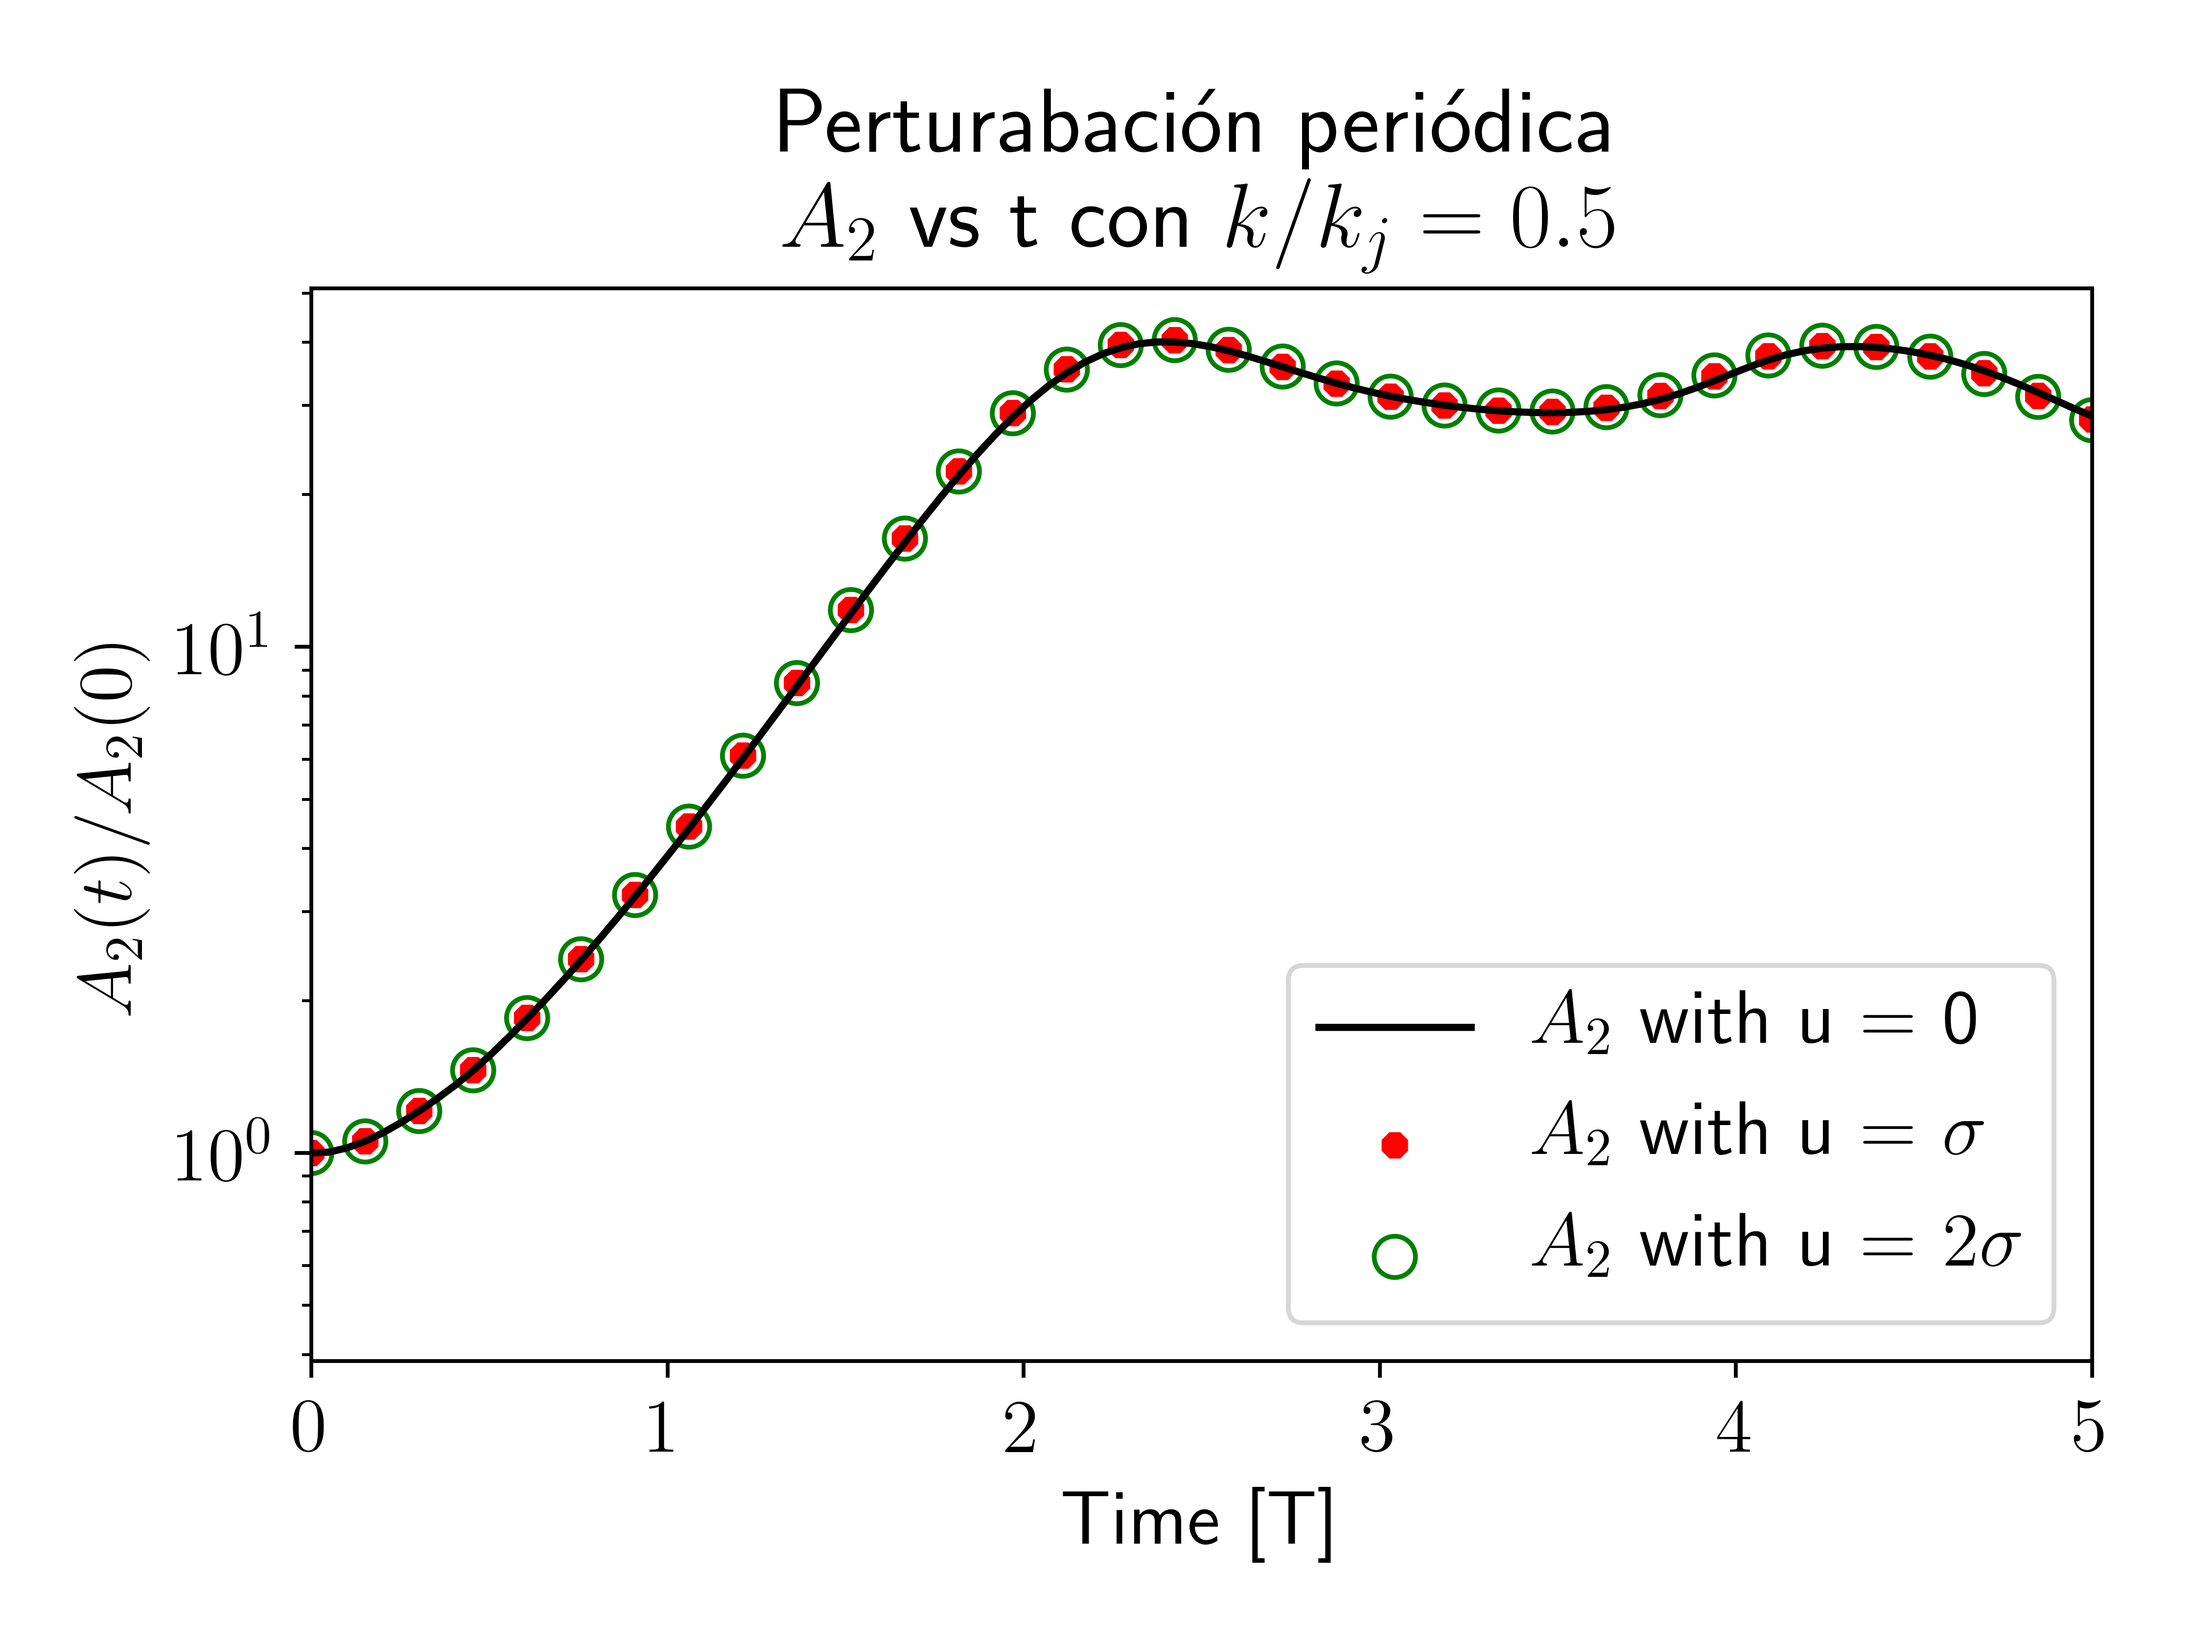
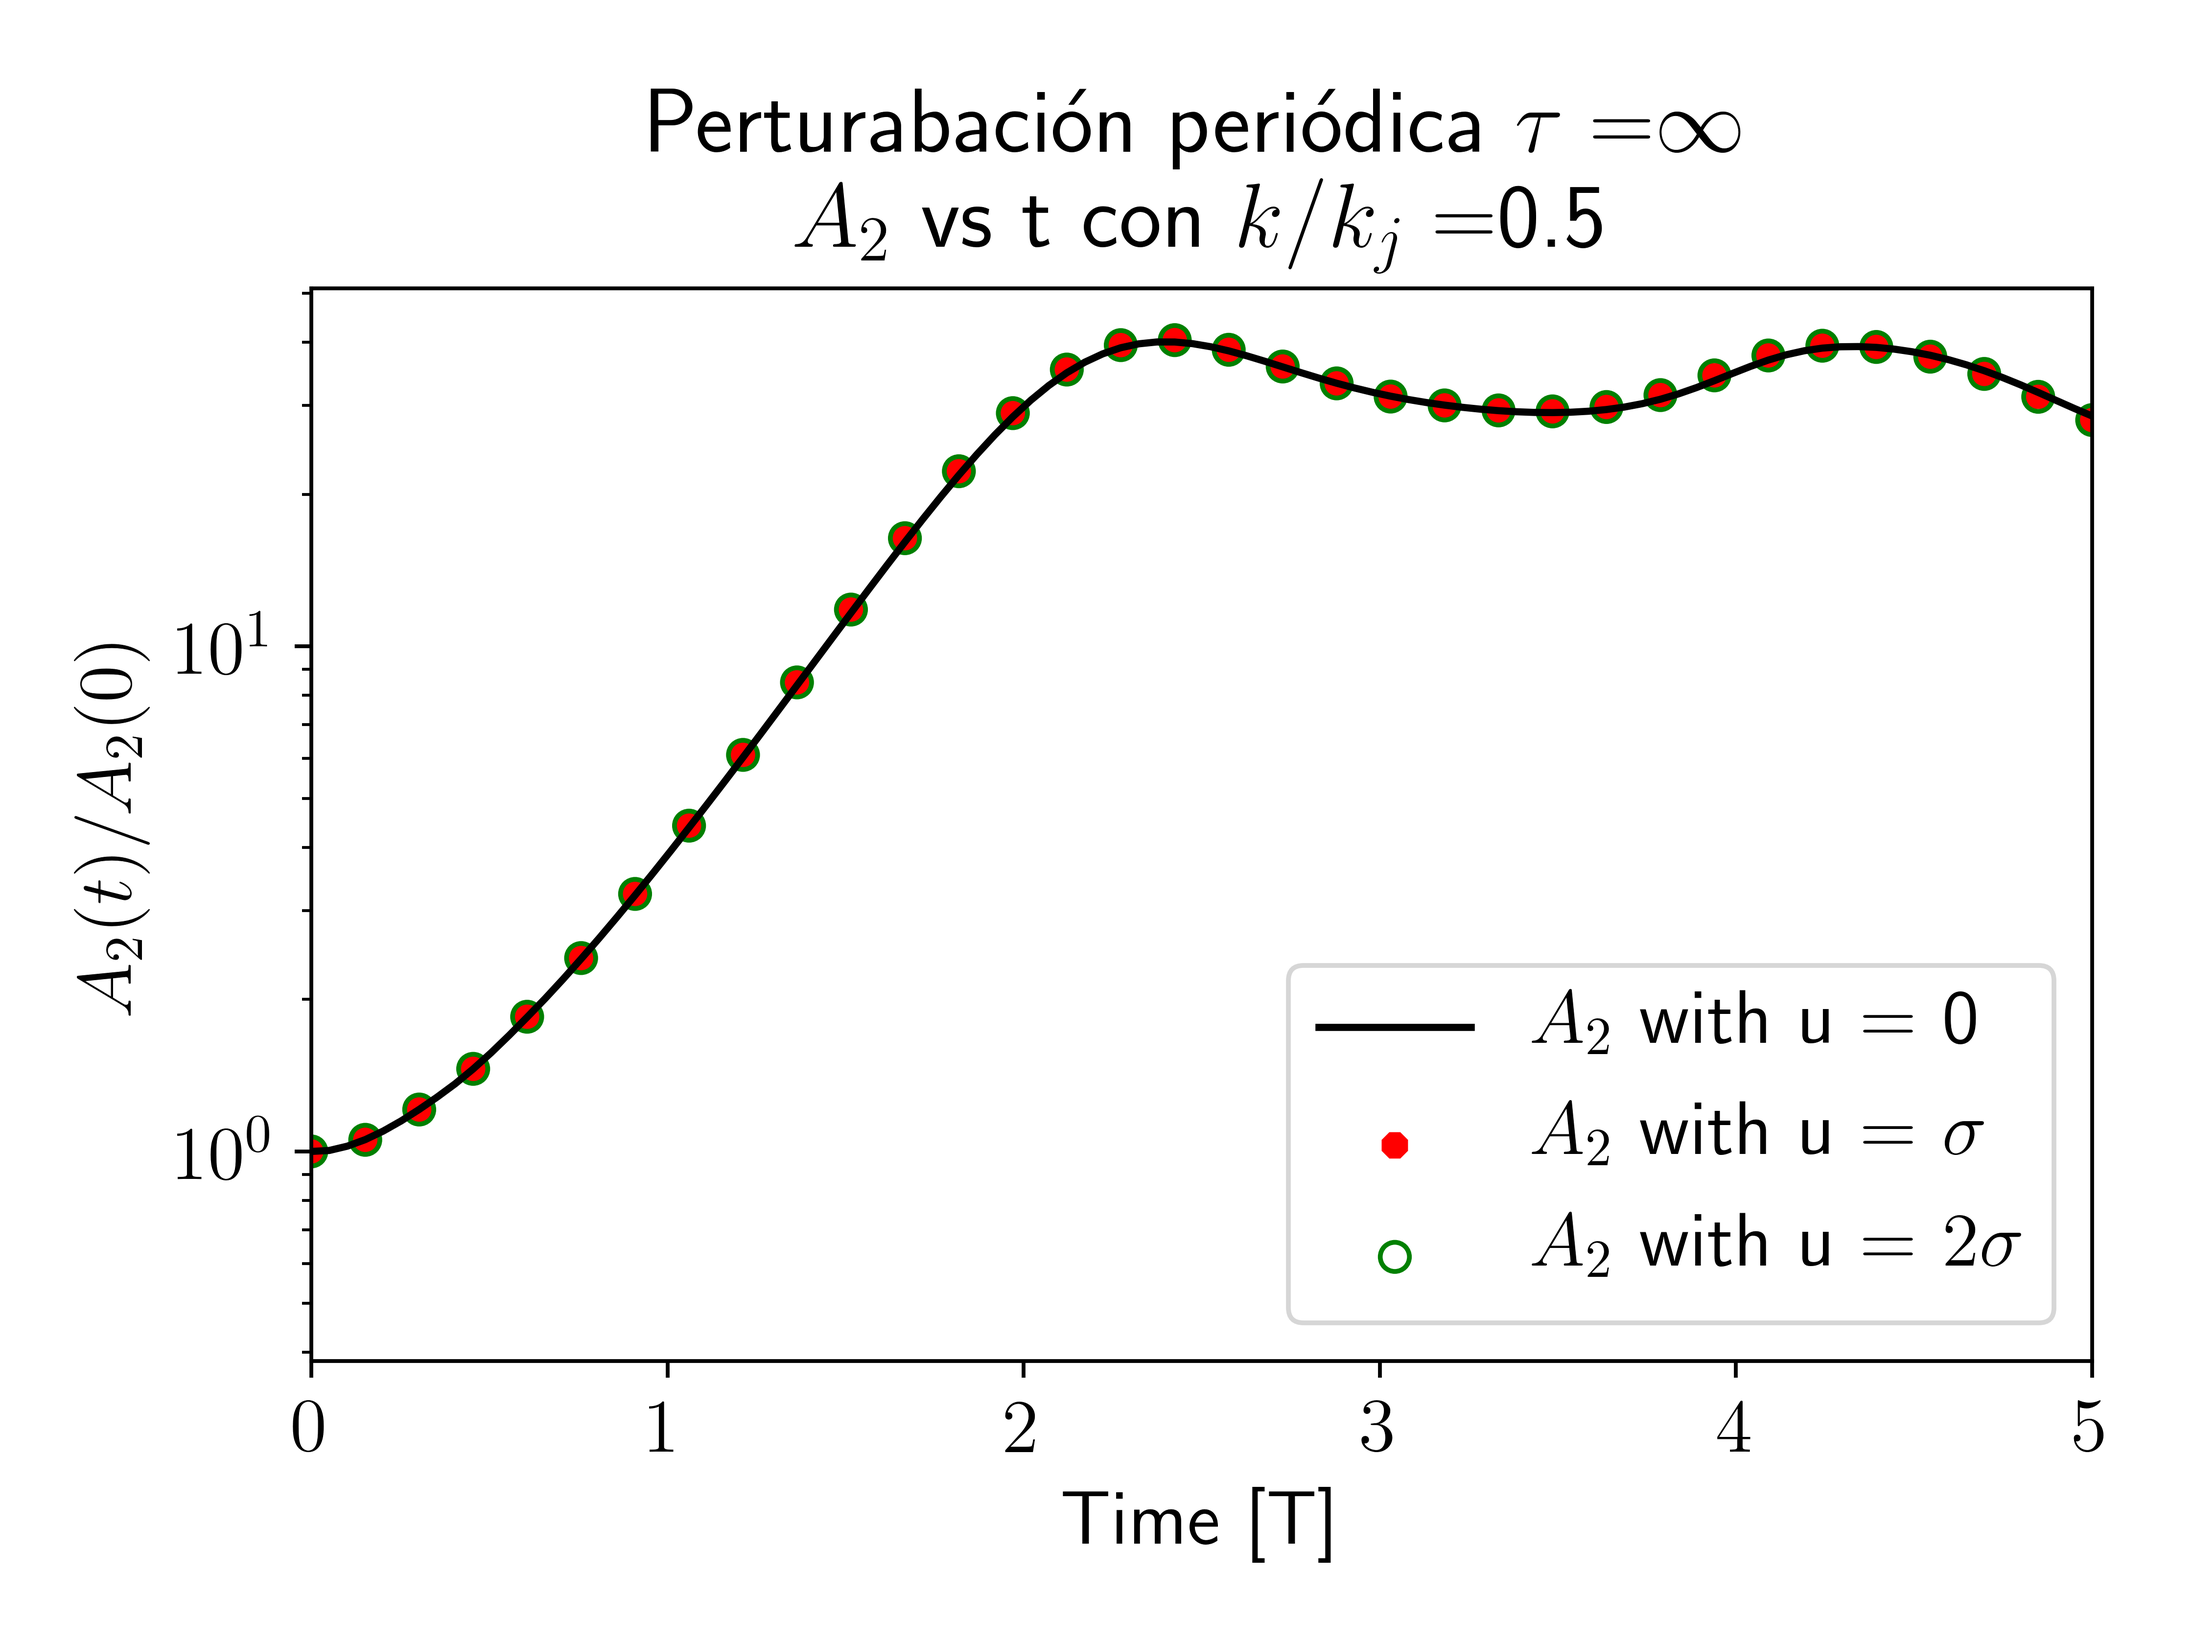
plots

diff --git a/plots/plots.py b/plots/plots.py
@@ -54,27 +54,33 @@ plt.figure(figsize=[6.4, 4.8])
 #test[0] = test[0]/test[0]
 #plt.plot(x,test)
 
-u0 = np.loadtxt('/home/clarkguilty/Paper-CollDM/plots/invarianceTau500kkj05/u=0.dat')
-usigma = np.loadtxt('/home/clarkguilty/Paper-CollDM/plots/invarianceTau500kkj05/u=sigma.dat')
-u2sigma = np.loadtxt('/home/clarkguilty/Paper-CollDM/plots/invarianceTau500kkj05/u=2sigma.dat')
-u0[0] = u0[0]/u0[0]
-usigma[0] = usigma[0]/usigma[0]
-u2sigma[0] = u2sigma[0]/u2sigma[0]
-
-#plt.plot(x,u0, color = 'black')
-plt.plot(x,u0, color = 'black', label = '$A_2$ with u = 0')
-plt.scatter(x[::3],usigma[::3], marker='8', facecolors='red', edgecolors = 'none',label = '$A_2$ with u = $\sigma$')
-plt.scatter(x[::3],u2sigma[::3], marker='.', edgecolors = 'green', facecolors= 'none', s=300,label = '$A_2$ with u = $2\sigma$')
-plt.xlim(0,5)
-plt.ylabel('$A_2(t) / A_2(0)$')
-plt.xlabel('Time [T]')
-plt.yscale('log')
-plt.legend()
-
-plt.title("Perturabación periódica \n$A_2$ vs t con $k/k_j = 0.5$")
-
-plt.savefig('Jeans2Coef.png', dpi =dpII)
-
+carpetas = ['invarianceTau0kkj05','invarianceTau0kkj11','invarianceTau500kkj05']
+taus = [r'$\infty$',r'$\infty$', '500']
+kas = ['0.5','1.1', '0.5']
+for carpeta, ttau, ka in zip(carpetas,taus,kas):
+      
+      fig = plt.figure(figsize=[6.4, 4.8])
+      u0 = np.loadtxt('/home/clarkguilty/Paper-CollDM/plots/'+carpeta+'/u=0.dat')
+      usigma = np.loadtxt('/home/clarkguilty/Paper-CollDM/plots/'+carpeta+'/u=sigma.dat')
+      u2sigma = np.loadtxt('/home/clarkguilty/Paper-CollDM/plots/'+carpeta+'/u=2sigma.dat')
+      u0[0] = u0[0]/u0[0]
+      usigma[0] = usigma[0]/usigma[0]
+      u2sigma[0] = u2sigma[0]/u2sigma[0]
+      
+      #plt.plot(x,u0, color = 'black')
+      plt.plot(x,u0, color = 'black', label = '$A_2$ with u = 0')
+      plt.scatter(x[::3],usigma[::3], marker='8', facecolors='red', edgecolors = 'none',label = '$A_2$ with u = $\sigma$')
+      plt.scatter(x[::3],u2sigma[::3], marker='.', edgecolors = 'green', facecolors= 'none', s=150,label = '$A_2$ with u = $2\sigma$')
+      plt.xlim(0,5)
+      plt.ylabel('$A_2(t) / A_2(0)$')
+      plt.xlabel('Time [T]')
+      plt.yscale('log')
+      plt.legend()
+      
+      plt.title("Perturabación periódica $\\tau = $"+ttau+"\n$A_2$ vs t con $k/k_j = $"+ka)
+      
+      plt.savefig(carpeta+'/Jeans2Coef.png', dpi =dpII)
+      plt.close(fig)
 #inF = np.loadtxt("inF.dat")
 #outF = np.loadtxt("outF0.dat")
 #outF1 = np.loadtxt("outF1.dat")
@@ -103,7 +109,7 @@ acceUnit = 3.5737451e-13 #km/s²
 condition = 'gauss'
 if(condition == 'gauss'): 
       #f = plt.figure(figsize= (5,11))
-      f = plt.figure(figsize= (4,6))
+      f = plt.figure(figsize= (6,8))
       to_Plot = [49,199]*3
       folders = ['_nocol', '_tau8972', '_tau500']
       ylabels = ['Collisionless', '$\\tau = 8972$', '$\\tau = 500$']
